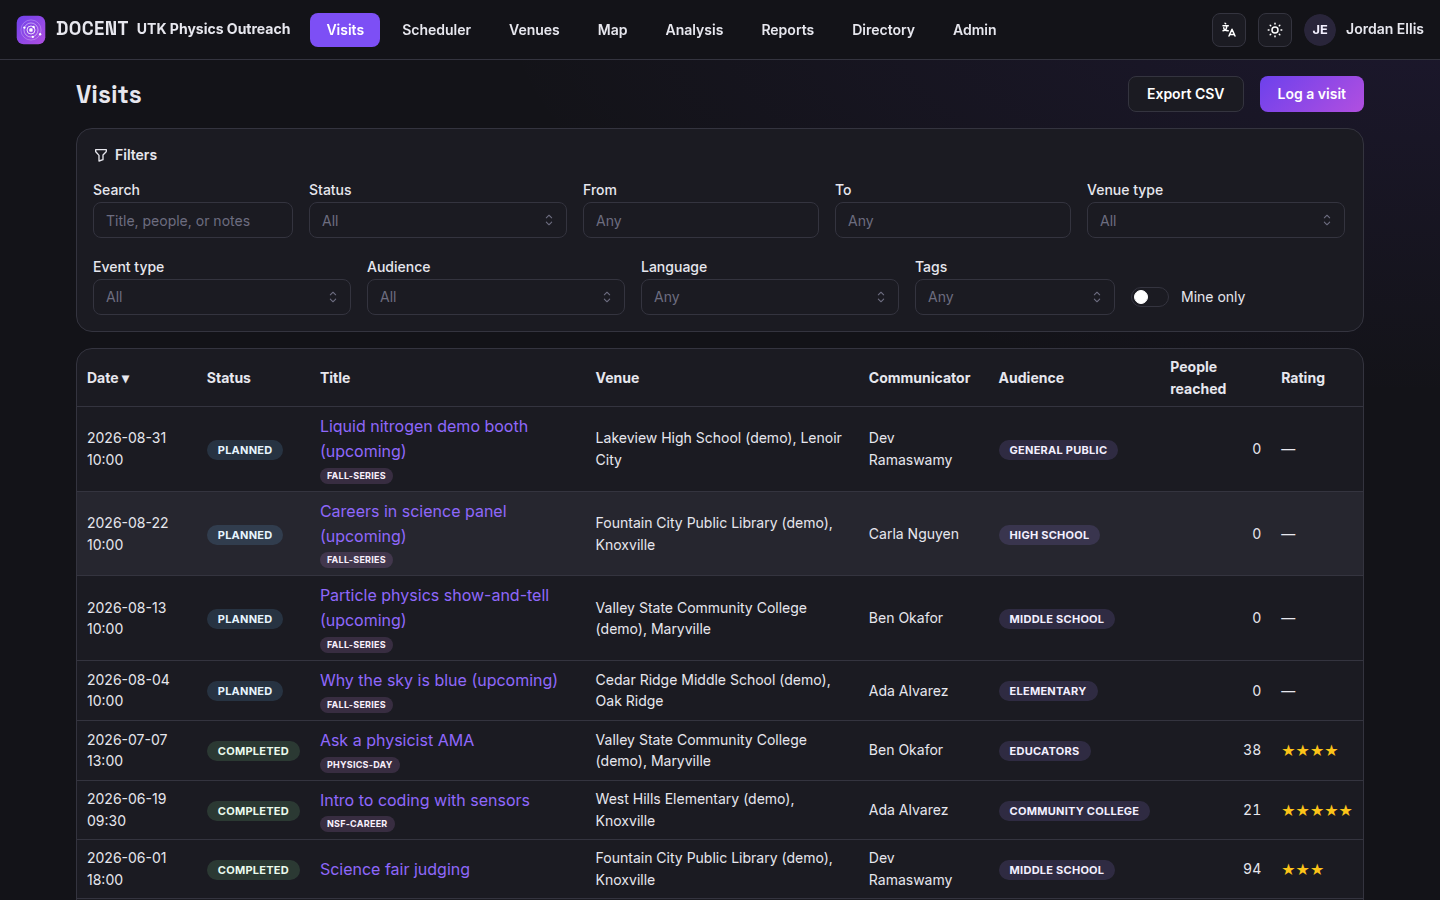
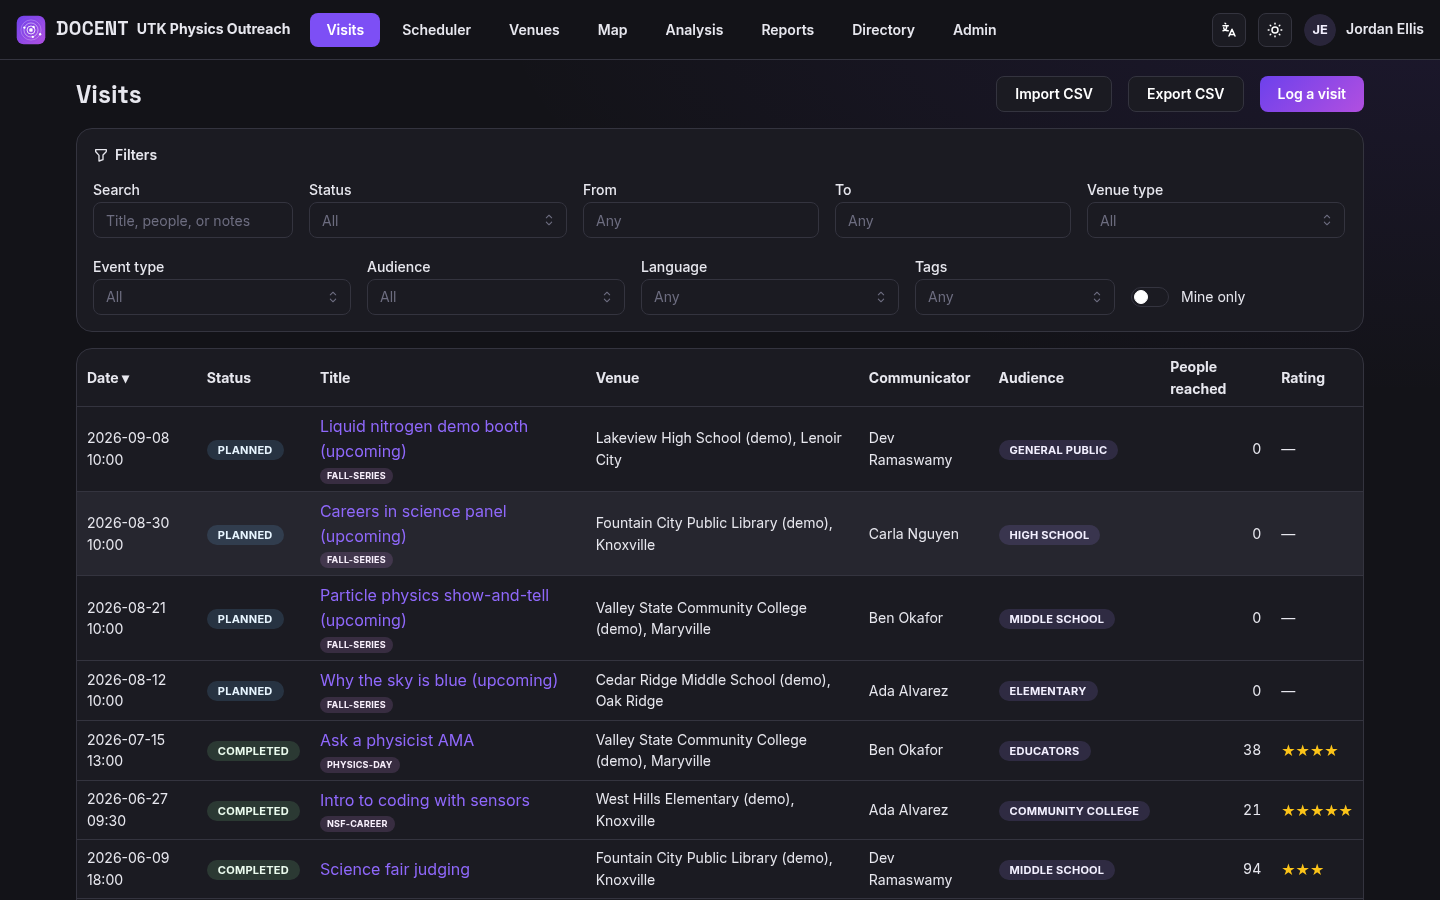
Move the CSV import wizard to the Visits page; tidy the review UI
- The import tool now lives where the data lands: an "Import CSV" button on
  the Visits page next to Export CSV, replacing the profile-page card. The
  wizard itself is unchanged in behavior.
- Review step: drop the scrollable row-chip strip (Prev/Next and the arrow
  keys remain the way to move between rows) and mark the fields required to
  import — title/topic, date, venue, event type, and audience level — with
  the standard required asterisk.
- i18n: visitList.importCsv added and profile.import* / the now-unused
  untitledRow key removed, in all seven locales.
- README updated; 01-visits.png regenerated (new header button) and
  10-import.png reshot with the final UI. End-to-end re-verified from the
  new entry point.

Claude-Session: https://claude.ai/code/session_01XEQAvLSiFRTpLbrGL8uQrW

diff --git a/frontend/src/components/EventImportWizard.tsx b/frontend/src/components/EventImportWizard.tsx
@@ -14,7 +14,6 @@ import {
   Modal,
   NumberInput,
   Progress,
-  ScrollArea,
   Select,
   SimpleGrid,
   Stack,
@@ -538,26 +537,6 @@ export function EventImportWizard({
             </Progress.Section>
           </Progress.Root>
 
-          {/* Row chips — jump anywhere, see status at a glance */}
-          <ScrollArea type="auto" offsetScrollbars>
-            <Group gap={4} wrap="nowrap">
-              {rows.map((r, i) => (
-                <Tooltip key={i} label={r.title || t('importWizard.untitledRow')} withArrow>
-                  <Badge
-                    style={{ cursor: 'pointer', flexShrink: 0 }}
-                    variant={i === current ? 'filled' : 'light'}
-                    color={
-                      r.status === 'imported' ? 'teal' : r.status === 'skipped' ? 'gray' : 'violet'
-                    }
-                    onClick={() => goTo(i)}
-                  >
-                    {i + 1}
-                  </Badge>
-                </Tooltip>
-              ))}
-            </Group>
-          </ScrollArea>
-
           <SimpleGrid cols={{ base: 1, md: 2 }} spacing="md">
             {/* Left: the editable draft */}
             <Stack gap="xs">
@@ -585,6 +564,7 @@ export function EventImportWizard({
 
               <TextInput
                 label={t('importWizard.titleLabel')}
+                withAsterisk
                 value={row.title}
                 disabled={row.status === 'imported'}
                 onChange={(e) => patchRow(current, { title: e.currentTarget.value })}
@@ -592,6 +572,7 @@ export function EventImportWizard({
               <Group grow>
                 <DateInput
                   label={t('importWizard.dateLabel')}
+                  withAsterisk
                   valueFormat="YYYY-MM-DD"
                   placeholder="YYYY-MM-DD"
                   popoverProps={{ withinPortal: true }}
@@ -601,6 +582,7 @@ export function EventImportWizard({
                 />
                 <Select
                   label={t('importWizard.eventTypeLabel')}
+                  withAsterisk
                   data={EVENT_TYPES.map((v) => ({ value: v, label: enumLabel.eventType(v) }))}
                   value={row.event_type}
                   disabled={row.status === 'imported'}
@@ -611,6 +593,7 @@ export function EventImportWizard({
               <Group grow>
                 <Select
                   label={t('importWizard.audienceLabel')}
+                  withAsterisk
                   data={AUDIENCE_LEVELS.map((v) => ({ value: v, label: enumLabel.audienceLevel(v) }))}
                   value={row.audience_level}
                   disabled={row.status === 'imported'}
@@ -633,6 +616,7 @@ export function EventImportWizard({
                   onChange={(venueId) => patchRow(current, { venue_id: venueId })}
                   initialSearch={venueSeed}
                   disabled={row.status === 'imported'}
+                  required
                 />
                 {row.draft.venue_name && row.venue_id === null && (
                   <Text size="xs" c="dimmed" mt={2}>

diff --git a/frontend/src/pages/ProfilePage.tsx b/frontend/src/pages/ProfilePage.tsx
@@ -13,7 +13,7 @@ import {
   Title,
 } from '@mantine/core';
 import { useForm } from '@mantine/form';
-import { IconFileSpreadsheet, IconTrash } from '@tabler/icons-react';
+import { IconTrash } from '@tabler/icons-react';
 import { notifications } from '@mantine/notifications';
 import { useMutation, useQuery, useQueryClient } from '@tanstack/react-query';
 import { useState } from 'react';
@@ -22,7 +22,6 @@ import { api, ApiError } from '../api/client';
 import { useInstitutionOptions, usePositionOptions } from '../api/meta';
 import { LANGUAGES, type School, type StatsSummary, type User, type UserRole } from '../api/types';
 import { useAuth } from '../auth/AuthContext';
-import { EventImportWizard } from '../components/EventImportWizard';
 import { OrcidLink } from '../components/OrcidLink';
 import { RolesEditor } from '../components/RolesEditor';
 import { VenuePicker } from '../components/VenuePicker';
@@ -32,7 +31,6 @@ export function ProfilePage() {
   const { user, refresh } = useAuth();
   const queryClient = useQueryClient();
   const [newSchoolId, setNewSchoolId] = useState<number | null>(null);
-  const [importOpen, setImportOpen] = useState(false);
   const positionOptions = usePositionOptions();
   const institutionOptions = useInstitutionOptions();
 
@@ -175,33 +173,6 @@ export function ProfilePage() {
           </Text>
         </Card>
       </Group>
-
-      <Card withBorder p="lg">
-        <Group justify="space-between" align="flex-start" wrap="wrap">
-          <div style={{ flex: 1, minWidth: 220 }}>
-            <Title order={4}>{t('profile.importTitle')}</Title>
-            <Text size="sm" c="dimmed">
-              {t('profile.importDescription')}
-            </Text>
-          </div>
-          <Button
-            leftSection={<IconFileSpreadsheet size={16} />}
-            variant="light"
-            onClick={() => setImportOpen(true)}
-          >
-            {t('profile.importButton')}
-          </Button>
-        </Group>
-      </Card>
-
-      <EventImportWizard
-        opened={importOpen}
-        onClose={() => setImportOpen(false)}
-        onImported={() => {
-          queryClient.invalidateQueries({ queryKey: ['visits'] });
-          queryClient.invalidateQueries({ queryKey: ['stats'] });
-        }}
-      />
 
       <Card withBorder p="lg">
         <form onSubmit={profileForm.onSubmit((values) => saveProfile.mutate(values))}>

diff --git a/frontend/src/pages/VisitListPage.tsx b/frontend/src/pages/VisitListPage.tsx
@@ -19,11 +19,12 @@ import {
 } from '@mantine/core';
 import { DateInput } from '@mantine/dates';
 import { IconClipboardList, IconExternalLink } from '@tabler/icons-react';
-import { useQuery } from '@tanstack/react-query';
+import { useQuery, useQueryClient } from '@tanstack/react-query';
 import { useState } from 'react';
 import { useTranslation } from 'react-i18next';
 import { Link, useNavigate } from 'react-router-dom';
 import { EmptyState } from '../components/EmptyState';
+import { EventImportWizard } from '../components/EventImportWizard';
 import { FilterCard } from '../components/FilterCard';
 import { buildQuery } from '../api/client';
 import { api } from '../api/client';
@@ -49,6 +50,8 @@ export function VisitListPage() {
   const enumLabel = useEnumLabel();
   const { user } = useAuth();
   const navigate = useNavigate();
+  const queryClient = useQueryClient();
+  const [importOpen, setImportOpen] = useState(false);
   const [filters, setFilters] = useState<VisitFilters>({});
   const [q, setQ] = useState('');
   const [statusFilter, setStatusFilter] = useState<string | null>(null);
@@ -117,6 +120,9 @@ export function VisitListPage() {
       <Group justify="space-between">
         <Title order={2}>{t('visitList.title')}</Title>
         <Group>
+          <Button variant="default" onClick={() => setImportOpen(true)}>
+            {t('visitList.importCsv')}
+          </Button>
           <Button component="a" href={exportHref} variant="default">
             {t('visitList.exportCsv')}
           </Button>
@@ -125,6 +131,15 @@ export function VisitListPage() {
           </Button>
         </Group>
       </Group>
+
+      <EventImportWizard
+        opened={importOpen}
+        onClose={() => setImportOpen(false)}
+        onImported={() => {
+          queryClient.invalidateQueries({ queryKey: ['visits'] });
+          queryClient.invalidateQueries({ queryKey: ['stats'] });
+        }}
+      />
 
       <FilterCard activeCount={activeFilterCount}>
         <Group align="flex-end">

diff --git a/frontend/src/components/VenuePicker.tsx b/frontend/src/components/VenuePicker.tsx
@@ -49,6 +49,8 @@ interface VenuePickerProps {
    * picker re-seeds whenever this changes and nothing is selected yet. */
   initialSearch?: string;
   disabled?: boolean;
+  /** Show the required-field asterisk on the label. */
+  required?: boolean;
 }
 
 export function VenuePicker({
@@ -58,6 +60,7 @@ export function VenuePicker({
   educationalOnly,
   initialSearch,
   disabled,
+  required,
 }: VenuePickerProps) {
   const { t } = useTranslation();
   const enumLabel = useEnumLabel();
@@ -148,6 +151,7 @@ export function VenuePicker({
         searchable
         clearable
         disabled={disabled}
+        withAsterisk={required}
         data={options}
         // Results are already filtered server-side by `search`; disable Mantine's
         // own filtering so the "＋ Create new venue…" and catalog options are

diff --git a/README.md b/README.md
@@ -388,8 +388,8 @@ map coverage, so planning ahead never inflates your impact numbers.
 ## Import your event history from a CSV
 
 Already have years of outreach logged in a spreadsheet — or in **Symplectic
-Elements**? **Profile → Import past events** walks you through bringing it in
-without retyping everything:
+Elements**? The **Import CSV** button on the Visits page (right next to
+Export CSV) walks you through bringing it in without retyping everything:
 
 - **Any reasonable CSV works.** DOCENT sniffs the delimiter and encoding,
   auto-maps common column names (title, date, venue, attendance, audience,
